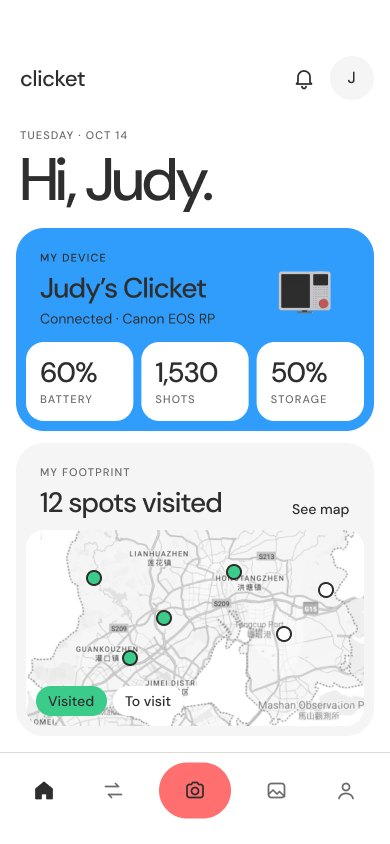
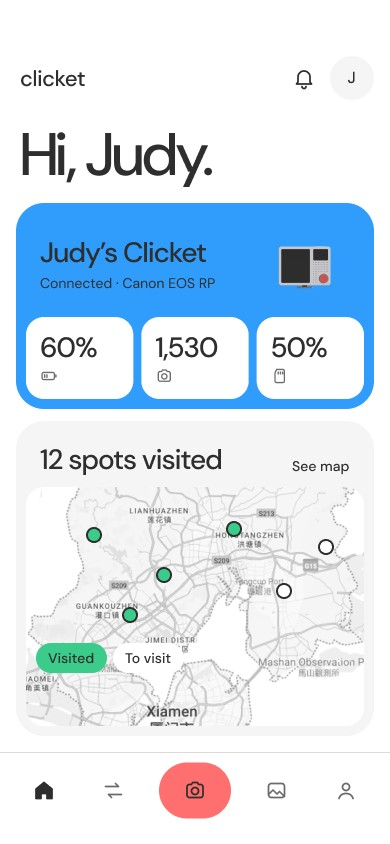
Clicket screens on Home and in the Projects pocket: the fewer-labels version from Figma; animation bands, scan line and B2 glow moved to the new layout

Changed region(s): [[0.0308, 0.154, 0.9846, 0.8626]]

diff --git a/index.html b/index.html
@@ -442,7 +442,7 @@
     </a></li>
     <li><a class="player" href="projects.html?p=clicket" style="--accent:#ff6f6f; --p:.38">
       <span class="deck-tt">
-        <span class="record"><span class="scene" style="--scene: #eee url(assets/home3/clicket-cameras.jpg)"><span class="screen" data-flow="clicket" role="img" aria-label="The Clicket app on a phone, over a table of old cameras"><img src="assets/home3/clicket-flow-1.jpg" alt="" decoding="async"><img alt="" decoding="async"><span class="tap"></span></span></span></span>
+        <span class="record"><span class="scene" style="--scene: #eee url(assets/home3/clicket-cameras.jpg)"><span class="screen" data-flow="clicket" role="img" aria-label="The Clicket app on a phone, over a table of old cameras"><img src="assets/home3/clicket-flow-1.jpg?v=2" alt="" decoding="async"><img alt="" decoding="async"><span class="tap"></span></span></span></span>
         <svg class="chrome" viewBox="0 0 650 560" aria-hidden="true">
           <text class="deck-label" x="40" y="62">TRACK 03</text>
           <circle class="ring-bg" cx="280" cy="282" r="250"/><circle class="ring" cx="280" cy="282" r="250"/>
@@ -562,11 +562,11 @@
       ],
       // Clicket · Rent: Home → Scan to log in → Rent gear → Your order → Locker B2 open
       clicket: [
-        { build: [[.155, .245], [.27, .51], [.525, .875]], taps: [[.5, .94]], next: { t: "wipe" } },
-        { build: [[.07, .235], [.27, .69]], fx: "scan", hold: 1500, taps: [], next: { t: "push" } },
+        { build: [[.133, .226], [.241, .485], [.499, .872]], taps: [[.5, .94]], next: { t: "wipe" } },
+        { build: [[.066, .216], [.235, .664]], fx: "scan", hold: 1500, taps: [], next: { t: "push" } },
         { build: [[.135, .265], [.285, .645], [.665, .82]], taps: [[.887, .84]], next: { t: "expand", r: [.813, .805, .96, .874] } },
         { build: [[.135, .265], [.285, .445], [.46, .68], [.805, .875]], taps: [[.5, .84]], next: { t: "wipe" } },
-        { build: [[.15, .265], [.295, .405], [.405, .515], [.515, .625], [.625, .735], [.805, .875]], fx: "b2", taps: [[.5, .84]], next: { t: "fade" } },
+        { build: [[.137, .237], [.256, .373], [.373, .485], [.485, .596], [.596, .713], [.806, .872]], fx: "b2", taps: [[.5, .84]], next: { t: "fade" } },
       ],
     };
     if (matchMedia("(prefers-reduced-motion: reduce)").matches) return;
@@ -579,8 +579,8 @@
       return b;
     };
     const FX = {
-      scan: '<span class="fx-scan" style="left:25.7%;top:33.8%;width:48.6%;height:22.8%"><i></i></span>',
-      b2: '<span class="fx-glow" style="left:50.7%;top:40.6%;width:42.6%;height:9.9%"></span>',
+      scan: '<span class="fx-scan" style="left:20.5%;top:29.5%;width:59%;height:26.5%"><i></i></span>',
+      b2: '<span class="fx-glow" style="left:51.3%;top:37.9%;width:42%;height:10%"></span>',
       fill: '<span class="fx-fill" style="left:10.1%;top:41.9%;width:34.6%;height:.85%"><i></i></span>',
     };
     document.querySelectorAll(".record .screen[data-flow]").forEach(scr => {
@@ -588,7 +588,7 @@
       const tap = scr.querySelector(".tap");
       // one layer per screen: the blocks that build in, and the still parts between them
       const layers = FL.map((sc, k) => {
-        const src = `assets/home3/${name}-flow-${k + 1}.jpg`, L = document.createElement("span");
+        const src = `assets/home3/${name}-flow-${k + 1}.jpg?v=2`, L = document.createElement("span");
         L.className = "layer"; const cuts = [...sc.build].sort((a, b) => a[0] - b[0]);
         let y = 0; const moving = [];
         cuts.forEach(([a, b]) => { if (a > y) L.appendChild(band(src, y, a)); const m = band(src, a, b); moving.push(m); L.appendChild(m); y = b; });

diff --git a/projects.html b/projects.html
@@ -372,7 +372,7 @@
         { photo: "assets/pocket/clicket-30218.jpg", w: 124, ar: 1.333 },
         { track: "Physical product · App · Service", n: "03", w: 210 },
         { photo: "assets/pocket/clicket-59d78.jpg", w: 170, ar: 1.145 },
-        { photo: "assets/pocket/clicket-ui.jpg", w: 118, ar: .462 }
+        { photo: "assets/pocket/clicket-ui.jpg?v=2", w: 118, ar: .462 }
       ]
     }
   };
